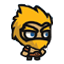
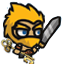
Added the Missing Images

diff --git a/DungeonKeep/src/dkeep/gui/GamePanel.java b/DungeonKeep/src/dkeep/gui/GamePanel.java
@@ -26,7 +26,7 @@ public class GamePanel extends JPanel implements KeyListener {
 	private static final String IMG_FORMAT = ".png";
 	
 	// TODO load images in GameCharacter class, make logic as invisible as possible outside its package 
-	private static final char[] characters = {'B', 'X', 'H', 'G', 'O', '*', 'k', 'I', 'S', 'A', 'K', '8', '$'};
+	private static final char[] characters = {'B', 'X', 'H', 'G', 'O', '*', 'k', 'I', 'S', 'A', 'K', '8', '$', 'g'};
 	
 	private final int IMG_WIDTH = 48;
 	private final int IMG_HEIGHT = 48;
